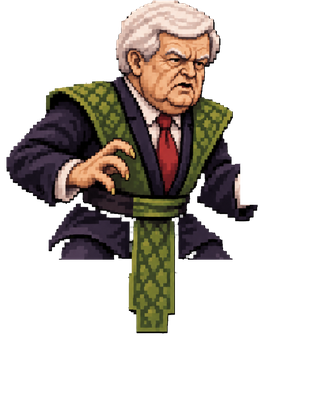
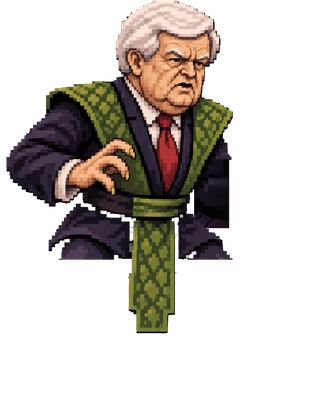
Elder Statesman: whole forearm swings from the shoulder, jacket filled behind it

Changed region(s): [[0.6117, 0.3714, 0.8447, 0.5571]]

diff --git a/js/monsters.js b/js/monsters.js
@@ -940,7 +940,7 @@ function drawStatesmanRig(ctx, p) {
   for (const k in ST_PARTS) if (!ST_PARTS[k].complete || !ST_PARTS[k].naturalWidth) return;
   const t = p.t || 0, IW = 309, IH = 420, K = 104 / IH;
   // pivots (image px): elbow of the reaching arm, neck, hips
-  const ELB = [240, 169], NECK = [172, 104], HIPL = [81, 247], HIPR = [211, 247];
+  const ELB = [219, 182], NECK = [172, 104], HIPL = [81, 247], HIPR = [211, 247];
   let bodyRot = 0, bodyDY = 0, headRot = Math.sin(t * 1.7) * 0.03, armRot = Math.sin(t * 2.3) * 0.05, armDX = 0, armDY = 0;
   let armSX = 1, legL = 0, legR = 0, sy = 1 + Math.sin(t * 2.4) * 0.012;
   if (p.walk) {
@@ -950,17 +950,17 @@ function drawStatesmanRig(ctx, p) {
   if (p.air) { legL = -0.14; legR = 0.14; armRot -= 0.35; }
   if (p.climb) {
     const k = Math.sin(p.climbPhase || 0);
-    bodyRot = -0.14; armRot = -1.35 + k * 0.35; armDY = -10; legL = 0.12 + k * 0.12; legR = -0.05 - k * 0.12; bodyDY = k * 8; headRot = -0.08;
+    bodyRot = -0.14; armRot = -1.2 + k * 0.3; legL = 0.12 + k * 0.12; legR = -0.05 - k * 0.12; bodyDY = k * 8; headRot = -0.08;
   }
   if (p.punch) {
     const k = Math.sin(Math.min(1, p.punch) * Math.PI);
     const dir = p.punchDir || 'side';
-    if (dir === 'up') { armRot += -1.15 * k; armDY -= 30 * k; bodyRot -= 0.06 * k; }
-    else if (dir === 'down') { armRot += 0.9 * k; armDY += 20 * k; bodyRot += 0.08 * k; }
-    else { armRot += -0.12 * k; armSX = 1 + 0.55 * k; armDX += 8 * k; bodyRot += 0.07 * k; }
+    if (dir === 'up') { armRot += -1.05 * k; armSX = 1 + 0.15 * k; bodyRot -= 0.06 * k; }
+    else if (dir === 'down') { armRot += 0.75 * k; armSX = 1 + 0.15 * k; bodyRot += 0.08 * k; }
+    else { armRot += -0.1 * k; armSX = 1 + 0.45 * k; bodyRot += 0.07 * k; }
     headRot += 0.05 * k;
   }
-  if (p.eat) { const k = Math.abs(Math.sin(t * 20)); armRot = -2.05; armDX = -20; armDY = -15; headRot = 0.06 + k * 0.06; }
+  if (p.eat) { const k = Math.abs(Math.sin(t * 20)); armRot = -1.7; armSX = 0.9; headRot = 0.06 + k * 0.06; }
   if (p.dash) bodyRot += 0.1;
   const img = ST_PARTS;
   const piece = (im, px, py, rot, dx = 0, dy = 0, sx = 1) => {

diff --git a/index.html b/index.html
@@ -57,12 +57,12 @@
   </div>
   <button class="tb" id="b-pause" data-act="pause">II</button>
 </div>
-<script src="js/core.js?v=23"></script>
-<script src="js/world.js?v=23"></script>
-<script src="js/monsters.js?v=23"></script>
-<script src="js/leaderboard.js?v=23"></script>
-<script src="js/game.js?v=23"></script>
-<script src="js/touch.js?v=23"></script>
+<script src="js/core.js?v=24"></script>
+<script src="js/world.js?v=24"></script>
+<script src="js/monsters.js?v=24"></script>
+<script src="js/leaderboard.js?v=24"></script>
+<script src="js/game.js?v=24"></script>
+<script src="js/touch.js?v=24"></script>
 <script src="/visits.js" async></script>
 </body>
 </html>
